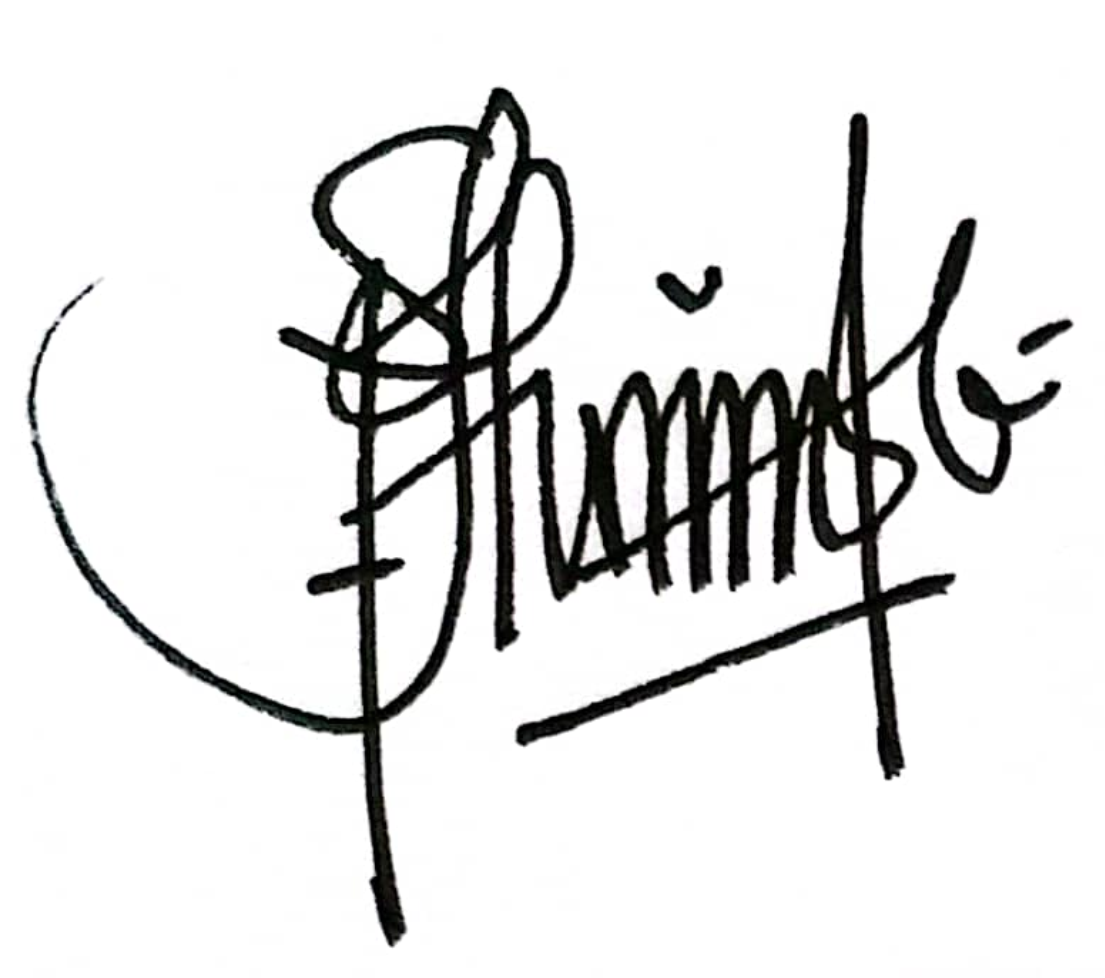
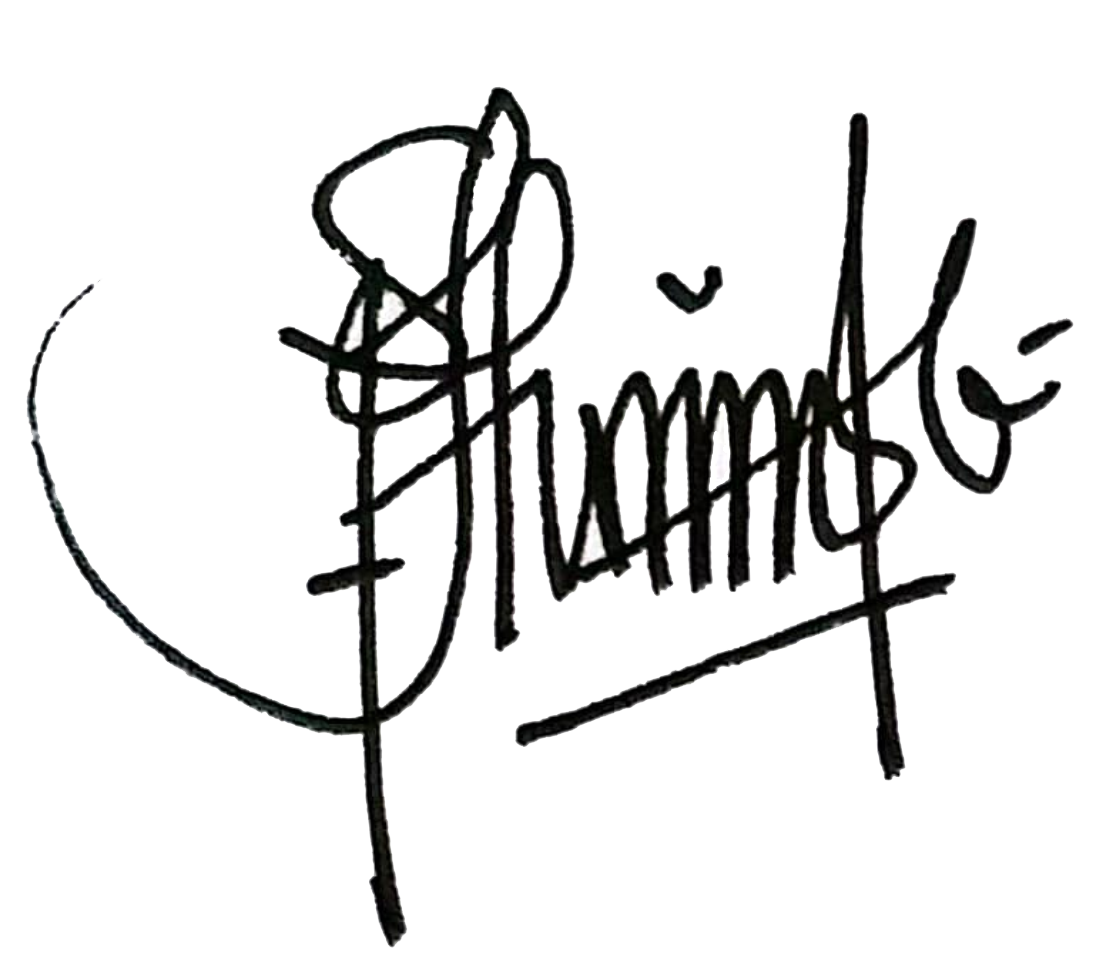
19 april 2025 : fix stempel pendaftaran ppdb

Changed region(s): [[0.6769, 0.3988, 0.7077, 0.4908], [0.7385, 0.3374, 0.7692, 0.3988]]

diff --git a/src/service/siswa.service.js b/src/service/siswa.service.js
@@ -5,6 +5,7 @@ const moment = require('moment');
 const ExcelJs = require('exceljs');
 const fs = require('fs');
 const { v4: uuidv4 } = require('uuid');
+// const { width } = require("pdfkit/js/page");
 
 async function listSiswa(req){
     const {rombel_saat_ini} = req.query;
@@ -191,7 +192,10 @@ async function downloadPdf(req, res){
     // Tambahkan Stempel
     doc
         .moveDown(3)
-        .image(path.join(__dirname, '../assets/ttd_panitia_SPMB.png'), 400, doc.y - 170 , { width: 120 });
+        .image(path.join(__dirname, '../assets/stempel1.png'), 400, doc.y - 170 , { width: 120});
+
+    doc
+        .image(path.join(__dirname, '../assets/ttd_panitia_SPMB.png'), 420, doc.y - 170 , { width: 120, opacity: 0.4 } );
 
     // Catatan
     doc
